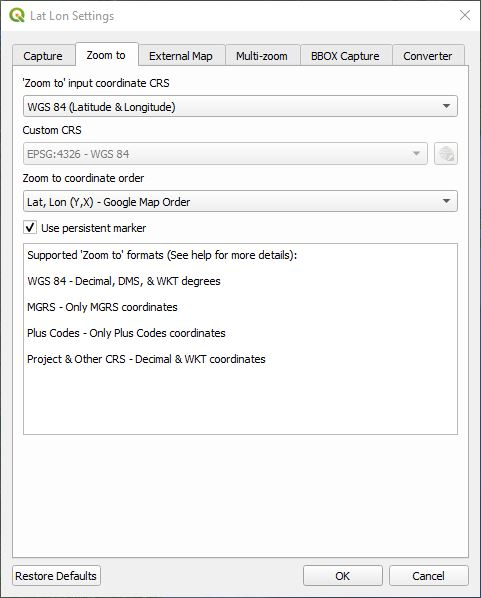
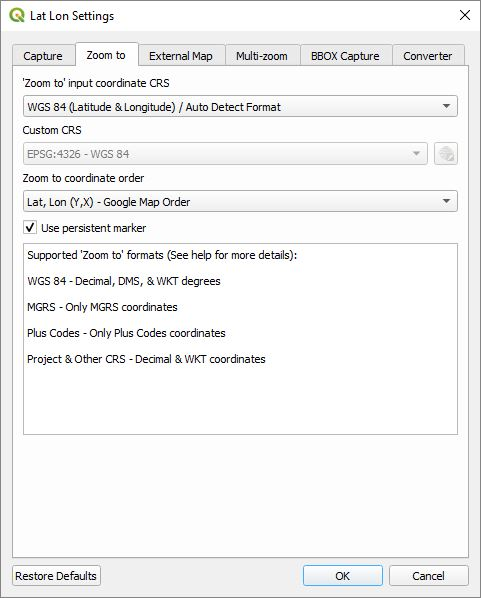
expanded zoomto and multi-zoomto capabilities

diff --git a/zoomToLatLon.py b/zoomToLatLon.py
@@ -56,12 +56,15 @@ class ZoomToLatLon(QDockWidget, FORM_CLASS):
 
     def configure(self):
         self.coordTxt.setText("")
+        self.removeMarker()
 
         if self.settings.zoomToProjIsMGRS():
             # This is an MGRS coordinate
             self.label.setText("Enter MGRS Coordinate")
         elif self.settings.zoomToProjIsPlusCodes():
             self.label.setText("Enter Plus Codes")
+        elif self.settings.zoomToProjIsStandardUtm():
+            self.label.setText("Enter Standard UTM")
         elif self.settings.zoomToProjIsWgs84():
             if self.settings.zoomToCoordOrder == 0:
                 self.label.setText("Enter 'Latitude, Longitude'")
@@ -80,9 +83,30 @@ class ZoomToLatLon(QDockWidget, FORM_CLASS):
             else:
                 self.label.setText("Enter {} X,Y".format(crsID))
 
-    def zoomToPressed(self):
+    def convertCoordinate(self, text):
         try:
-            text = self.coordTxt.text().strip()
+            if self.settings.zoomToProjIsMGRS():
+                # An MGRS coordinate only format has been specified. This will result in an exception
+                # if it is not a valid MGRS coordinate
+                text2 = re.sub(r'\s+', '', str(text))  # Remove all white space
+                lat, lon = mgrs.toWgs(text2)
+                return(lat, lon, epsg4326)
+
+            if self.settings.zoomToProjIsPlusCodes():
+                # A Plus Codes coordinate has been selected. This will result in an exception
+                # if it is not a valid plus codes coordinate.
+                coord = olc.decode(text)
+                lat = coord.latitudeCenter
+                lon = coord.longitudeCenter
+                return(lat, lon, epsg4326)
+
+            if self.settings.zoomToProjIsStandardUtm():
+                # A Standard UTM coordinate has been selected. This will result in an exception
+                # if it is not a valid utm coordinate.
+                pt = utmString2Crs(text)
+                return(pt.y(), pt.x(), epsg4326)
+
+            # Check for other formats
             if text[0] == '{':  # This may be a GeoJSON point
                 codec = QTextCodec.codecForName("UTF-8")
                 fields = QgsJsonUtils.stringToFields(text, codec)
@@ -94,57 +118,73 @@ class ZoomToLatLon(QDockWidget, FORM_CLASS):
                 if geom.isEmpty() or (geom.wkbType() != QgsWkbTypes.Point):
                     raise ValueError('Invalid GeoJSON Geometry')
                 pt = geom.asPoint()
-                lat = pt.y()
-                lon = pt.x()
-                srcCrs = epsg4326
-            elif isUtm(text):
+                return(pt.y(), pt.x(), epsg4326)
+
+            # Check to see if it is standard UTM
+            if isUtm(text):
                 pt = utmString2Crs(text)
-                srcCrs = epsg4326
-                lon = pt.x()
-                lat = pt.y()
-            elif self.settings.zoomToProjIsWgs84():
-                if re.search(r'POINT\(', text) is None:
-                    lat, lon = parseDMSString(text, self.settings.zoomToCoordOrder)
-                else:
-                    m = re.findall(r'POINT\(\s*([+-]?\d*\.?\d*)\s+([+-]?\d*\.?\d*)', text)
-                    if len(m) != 1:
-                        raise ValueError('Invalid Coordinates')
-                    lon = float(m[0][0])
-                    lat = float(m[0][1])
-                srcCrs = epsg4326
-            elif self.settings.zoomToProjIsPlusCodes() and olc.isValid(text):
-                # This looks like a Plus Codes coordinate
+                return(pt.y(), pt.x(), epsg4326)
+
+            # Check to see if it is an MGRS coordinate
+            try:
+                text2 = re.sub(r'\s+', '', str(text))
+                lat, lon = mgrs.toWgs(text2)
+                return(lat, lon, epsg4326)
+            except Exception:
+                pass
+
+            # Check to see if it is a plus codes string
+            try:
                 coord = olc.decode(text)
-                srcCrs = epsg4326
                 lat = coord.latitudeCenter
                 lon = coord.longitudeCenter
-            elif self.settings.zoomToProjIsMGRS():
-                # This is an MGRS coordinate
-                text = re.sub(r'\s+', '', str(text))  # Remove all white space
-                lat, lon = mgrs.toWgs(text)
-                srcCrs = epsg4326
-            else:  # Is either the project or custom CRS
-                if re.search(r'POINT\(', text) is None:
-                    coords = re.split(r'[\s,;:]+', text, 1)
-                    if len(coords) < 2:
-                        raise ValueError('Invalid Coordinates')
-                    if self.settings.zoomToCoordOrder == self.settings.OrderYX:
-                        lat = float(coords[0])
-                        lon = float(coords[1])
-                    else:
-                        lon = float(coords[0])
-                        lat = float(coords[1])
-                else:
-                    m = re.findall(r'POINT\(\s*([+-]?\d*\.?\d*)\s+([+-]?\d*\.?\d*)', text)
-                    if len(m) != 1:
-                        raise ValueError('Invalid Coordinates')
-                    lon = float(m[0][0])
-                    lat = float(m[0][1])
-                if self.settings.zoomToProjIsProjectCRS():
+                return(lat, lon, epsg4326)
+            except Exception:
+                pass
+
+            # Check to see if it is a WKT POINT format
+            if re.search(r'POINT\(', text) is not None:
+                m = re.findall(r'POINT\(\s*([+-]?\d*\.?\d*)\s+([+-]?\d*\.?\d*)', text)
+                if len(m) != 1:
+                    raise ValueError('Invalid Coordinates')
+                lon = float(m[0][0])
+                lat = float(m[0][1])
+                if self.settings.zoomToProjIsWgs84():
+                    srcCrs = epsg4326
+                elif self.settings.zoomToProjIsProjectCRS():
                     srcCrs = self.canvas.mapSettings().destinationCrs()
                 else:
                     srcCrs = self.settings.zoomToCustomCRS()
+                return(lat, lon, srcCrs)
 
+            # We are left with either DMS or decimal degrees in one of the projections
+            if self.settings.zoomToProjIsWgs84():
+                lat, lon = parseDMSString(text, self.settings.zoomToCoordOrder)
+                return(lat, lon, epsg4326)
+
+            # We are left with a non WGS 84 decimal projection
+            coords = re.split(r'[\s,;:]+', text, 1)
+            if len(coords) < 2:
+                raise ValueError('Invalid Coordinates')
+            if self.settings.zoomToCoordOrder == self.settings.OrderYX:
+                lat = float(coords[0])
+                lon = float(coords[1])
+            else:
+                lon = float(coords[0])
+                lat = float(coords[1])
+            if self.settings.zoomToProjIsProjectCRS():
+                srcCrs = self.canvas.mapSettings().destinationCrs()
+            else:
+                srcCrs = self.settings.zoomToCustomCRS()
+            return(lat, lon, srcCrs)
+
+        except Exception:
+            raise ValueError('Invalid Coordinates')
+        
+    def zoomToPressed(self):
+        try:
+            text = self.coordTxt.text().strip()
+            (lat, lon, srcCrs) = self.convertCoordinate(text)
             pt = self.lltools.zoomTo(srcCrs, lat, lon)
             if self.settings.persistentMarker:
                 if self.marker is None:

diff --git a/settings.py b/settings.py
@@ -84,9 +84,9 @@ class SettingsWidget(QDialog, FORM_CLASS):
     Wgs84TypeWKT = 3
     Wgs84TypeGeoJSON = 4
     ProjectionTypeWgs84 = 0
-    ProjectionTypeMGRS = 1
-    ProjectionTypeProjectCRS = 2
-    ProjectionTypeCustomCRS = 3
+    ProjectionTypeProjectCRS = 1
+    ProjectionTypeCustomCRS = 2
+    ProjectionTypeMGRS = 3
     ProjectionTypePlusCodes = 4
     ProjectionTypeUTM = 5
     OrderYX = 0
@@ -102,7 +102,7 @@ class SettingsWidget(QDialog, FORM_CLASS):
         self.buttonBox.button(QDialogButtonBox.RestoreDefaults).clicked.connect(self.restoreDefaults)
 
         ### CAPTURE SETTINGS ###
-        self.captureProjectionComboBox.addItems(['WGS 84 (Latitude & Longitude)', 'MGRS', 'Project CRS', 'Custom CRS', 'Plus Codes', 'Standard UTM'])
+        self.captureProjectionComboBox.addItems(['WGS 84 (Latitude & Longitude)', 'Project CRS', 'Custom CRS', 'MGRS', 'Plus Codes', 'Standard UTM'])
         self.captureProjectionSelectionWidget.setCrs(epsg4326)
         self.wgs84NumberFormatComboBox.addItems(['Decimal Degrees', 'DMS', 'DDMMSS', 'WKT POINT', 'GeoJSON'])
         self.otherNumberFormatComboBox.addItems(['Normal Coordinate', 'WKT POINT'])
@@ -111,7 +111,7 @@ class SettingsWidget(QDialog, FORM_CLASS):
         self.captureProjectionComboBox.activated.connect(self.setEnabled)
 
         ### ZOOM TO SETTINGS ###
-        self.zoomToProjectionComboBox.addItems(['WGS 84 (Latitude & Longitude)', 'MGRS', 'Project CRS', 'Custom CRS', 'Plus Codes'])
+        self.zoomToProjectionComboBox.addItems(['WGS 84 (Latitude & Longitude) / Auto Detect Format', 'Project CRS', 'Custom CRS', 'MGRS', 'Plus Codes', 'Standard UTM'])
         self.zoomToProjectionSelectionWidget.setCrs(epsg4326)
         self.zoomToCoordOrderComboBox.addItems(['Lat, Lon (Y,X) - Google Map Order', 'Lon, Lat (X,Y) Order'])
         self.zoomToProjectionComboBox.activated.connect(self.setEnabled)
@@ -120,7 +120,7 @@ class SettingsWidget(QDialog, FORM_CLASS):
         self.mapProviderComboBox.addItems(mapProviders.mapProviderNames())
 
         ### MULTI-ZOOM ###
-        self.multiZoomToProjectionComboBox.addItems(['WGS 84 (Latitude & Longitude)', 'MGRS', 'Project CRS', 'Custom CRS', 'Plus Codes'])
+        self.multiZoomToProjectionComboBox.addItems(['WGS 84 (Latitude & Longitude)', 'Project CRS', 'Custom CRS', 'MGRS', 'Plus Codes', 'Standard UTM'])
         self.multiZoomToProjectionComboBox.activated.connect(self.setEnabled)
         self.multiZoomToProjectionSelectionWidget.setCrs(epsg4326)
         self.qmlBrowseButton.clicked.connect(self.qmlOpenDialog)
@@ -364,12 +364,12 @@ class SettingsWidget(QDialog, FORM_CLASS):
 
         # Simple Zoom to Enables
         zoomToProjection = int(self.zoomToProjectionComboBox.currentIndex())
-        self.zoomToCoordOrderComboBox.setEnabled((zoomToProjection != self.ProjectionTypeMGRS) and (zoomToProjection != self.ProjectionTypePlusCodes))
+        self.zoomToCoordOrderComboBox.setEnabled((zoomToProjection != self.ProjectionTypeMGRS) and (zoomToProjection != self.ProjectionTypePlusCodes) and (zoomToProjection != self.ProjectionTypeUTM))
         self.zoomToProjectionSelectionWidget.setEnabled(zoomToProjection == self.ProjectionTypeCustomCRS)
 
         # MULTI Zoom
         zoomToProjection = int(self.multiZoomToProjectionComboBox.currentIndex())
-        self.multiZoomToProjectionSelectionWidget.setEnabled(zoomToProjection == 3)
+        self.multiZoomToProjectionSelectionWidget.setEnabled(zoomToProjection == 2)
 
     def showTab(self, tab):
         self.tabWidget.setCurrentIndex(tab)
@@ -408,11 +408,10 @@ class SettingsWidget(QDialog, FORM_CLASS):
         self.captureMarkerCheckBox.setCheckState(settings.captureShowLocation)
 
         ### ZOOM TO SETTINGS ###
+        self.zoomToProjectionComboBox.setCurrentIndex(self.zoomToProjection)
         if self.zoomToCustomCrsAuthId == 'EPSG:4326':
-            self.zoomToProjectionComboBox.setCurrentIndex(self.ProjectionTypeWgs84)
             self.zoomToProjectionSelectionWidget.setCrs(epsg4326)
         else:
-            self.zoomToProjectionComboBox.setCurrentIndex(self.zoomToProjection)
             self.zoomToProjectionSelectionWidget.setCrs(QgsCoordinateReferenceSystem(self.zoomToCustomCrsAuthId))
         self.zoomToCoordOrderComboBox.setCurrentIndex(self.zoomToCoordOrder)
         self.persistentMarkerCheckBox.setCheckState(self.persistentMarker)
@@ -525,8 +524,13 @@ class SettingsWidget(QDialog, FORM_CLASS):
             return True
         return False
 
+    def zoomToProjIsStandardUtm(self):
+        if self.zoomToProjection == self.ProjectionTypeUTM:
+            return True
+        return False
+
     def multiZoomToProjIsMGRS(self):
-        if self.multiZoomToProjection == 1:  # MGRS
+        if self.multiZoomToProjection == 3:  # MGRS
             return True
         return False
 
@@ -535,13 +539,18 @@ class SettingsWidget(QDialog, FORM_CLASS):
             return True
         return False
 
+    def multiZoomToProjIsUtm(self):
+        if self.multiZoomToProjection == 5:  # Standard UTM
+            return True
+        return False
+
     def multiZoomToProjIsWgs84(self):
         if self.multiZoomToProjection == 0:  # Wgs84
             return True
-        if self.multiZoomToProjection == 2:  # Project CRS
+        if self.multiZoomToProjection == 1:  # Project CRS
             if self.canvas.mapSettings().destinationCrs() == epsg4326:
                 return True
-        if self.multiZoomToProjection == 3:  # Custom CRS
+        if self.multiZoomToProjection == 2:  # Custom CRS
             if self.multiZoomToCustomCRS() == epsg4326:
                 return True
         return False
@@ -549,7 +558,7 @@ class SettingsWidget(QDialog, FORM_CLASS):
     def multiZoomToCRS(self):
         if self.multiZoomToProjection == 0:  # Wgs84
             return self.epse4326
-        if self.multiZoomToProjection == 2:  # Project CRS
+        if self.multiZoomToProjection == 1:  # Project CRS
             return self.canvas.mapSettings().destinationCrs()
-        if self.multiZoomToProjection == 3:  # Custom CRS
+        if self.multiZoomToProjection == 2:  # Custom CRS
             return self.multiZoomToCustomCRS()

diff --git a/multizoom.py b/multizoom.py
@@ -11,6 +11,7 @@ from qgis.core import (
     QgsPalLayerSettings, QgsVectorLayerSimpleLabeling, QgsProject, Qgis)
 from qgis.gui import QgsVertexMarker
 from .util import epsg4326, parseDMSStringSingle, parseDMSString
+from .utm import utmString2Crs
 from . import mgrs
 from . import olc
 
@@ -86,6 +87,8 @@ class MultiZoomWidget(QDockWidget, FORM_CLASS):
             self.label.setText("Enter coordinate ('mgrs,...)")
         elif self.settings.multiZoomToProjIsPlusCodes():
             self.label.setText("Enter coordinate ('Plus code,...)")
+        elif self.settings.multiZoomToProjIsUtm():
+            self.label.setText("Enter coordinate ('Standard UTM,...)")
         else:
             if self.settings.multiCoordOrder == self.settings.OrderYX:
                 self.label.setText("Enter coordinate ({} Y,X,...)".format(self.settings.multiZoomToCRS().authid()))
@@ -305,6 +308,14 @@ class MultiZoomWidget(QDockWidget, FORM_CLASS):
                 coord = olc.decode(parts[0])
                 lat = coord.latitudeCenter
                 lon = coord.longitudeCenter
+                if numFields >= 2:
+                    label = parts[1]
+                if numFields >= 3:
+                    data = parts[2:]
+            elif self.settings.multiZoomToProjIsUtm():
+                pt = utmString2Crs(parts[0])
+                lat = pt.y()
+                lon = pt.x()
                 if numFields >= 2:
                     label = parts[1]
                 if numFields >= 3:

diff --git a/readme.md b/readme.md
@@ -12,7 +12,7 @@ Some of the functions can be accessed from the ***Lat Lon Tools*** toolbar. If f
   
 * <img src="images/mapicon.png" alt="Show in External Map"> ***Show in External Map*** - With this tool, the user can click on the QGIS map which launches an external browser and displays the location on an external map. Currently Open Street Map, Google Maps, MapQuest, and Bing Maps are supported. Google Earth is supported if it is installed on the system. The desired map can be configured in **Settings**. A temporary marker can be displayed on the map at the location clicked on. To turn this on go to **Settings**.
 
-* <img src="images/zoomicon.png" alt="Zoom-to"> ***Zoom to Latitude, Longitude*** - With this tool, type or paste a coordinate into the text area and hit **Enter**. QGIS centers the map on the coordinate, highlights the location and creates a temporary marker at the location. The marker can be removed with the <img src="doc/cleartool.jpg" alt="Clear marker"> button. If the default **WGS 84** (EPSG:4326 - latitude/longitude) coordinate system is specified, ***Zoom to Latitude, Longitude*** can interpret **decimal degrees**, **DMS**, **WKT POINT**, **Standard UTM**, or **GeoJSON** coordinates. It can also zoom to **MGRS** coordinates , **Plus Code** coordinates or coordinates formatted in any other projection when configured in **Settings**. The ***Coordinate Order*** in ***Settings*** dictates whether the order is latitude followed by longitude (Y,X) or longitude followed by latitude (X,Y). By default the order is "Latitude, Longitude", the format used by Google Maps. Pressing the <img src="doc/zoomtool.jpg" alt="Zoom button"> also causes QGIS to zoom to that location.<br /><div style="text-align:center"><img src="doc/zoomto.jpg" alt="Zoom to Latitude, Longitude"></div><br />The following are acceptable coordinate formats when the ***Settings*** **Zoom to Coordinate Type** is set to ***WGS 84 (Latitude & Longitude)***. When the letters "N, S, E, W" are used, then the coordinate order is not important. These letters can be used before or after the coordinates. As long as the coordinate is understandable, punctuation, spaces, and &deg; ' " are optional. In these examples "d" represents degree digits, "m" minutes, and "s" seconds. Here are some example input formats:
+* <img src="images/zoomicon.png" alt="Zoom-to"> ***Zoom to Latitude, Longitude*** - With this tool, type or paste a coordinate into the text area and hit **Enter**. QGIS centers the map on the coordinate, highlights the location and creates a temporary marker at the location. The marker can be removed with the <img src="doc/cleartool.jpg" alt="Clear marker"> button. If the default **WGS 84** (EPSG:4326 - latitude/longitude) coordinate system is specified, ***Zoom to Latitude, Longitude*** can interpret **decimal degrees**, **DMS**, **WKT POINT**, **Standard UTM**, **MGRS**, **Plus Codes**, or **GeoJSON** coordinates. It can also zoom to any other projection when configured in **Settings**. The ***Coordinate Order*** in ***Settings*** dictates whether the order is latitude followed by longitude (Y,X) or longitude followed by latitude (X,Y). By default the order is "Latitude, Longitude", the format used by Google Maps. Pressing the <img src="doc/zoomtool.jpg" alt="Zoom button"> also causes QGIS to zoom to that location.<br /><div style="text-align:center"><img src="doc/zoomto.jpg" alt="Zoom to Latitude, Longitude"></div><br />The following are acceptable coordinate formats when the ***Settings*** **Zoom to Coordinate Type** is set to ***WGS 84 (Latitude & Longitude)***. When the letters "N, S, E, W" are used, then the coordinate order is not important. These letters can be used before or after the coordinates. As long as the coordinate is understandable, punctuation, spaces, and &deg; ' " are optional. In these examples "d" represents degree digits, "m" minutes, and "s" seconds. Here are some example input formats:
 
     * Decimal Degree: 38.959390&deg;, -95.265483&deg; / 38.959390, -95.265483 / 38.959390N, 95.265483 W (d.dddd, d.dddd)
     * Degree, Minute: 38&deg; 57.5634'N 95&deg; 15.92890'W (d m.mmmm, d m.mmmm)
@@ -32,7 +32,8 @@ Some of the functions can be accessed from the ***Lat Lon Tools*** toolbar. If f
     * **"mgrs[,label,data1,...,data10]"**
     * **"Y,X[,label,data1,...,data10]"**
     * **"X,Y[,label,data1,...,data10]"**
-     * **"plus codes[,label,data1,...,data10]"**
+    * **"plus codes[,label,data1,...,data10]"**
+    * **"standard utm[,label,data1,...,data10]"**
    
     When the user clicks on a location in the list, QGIS centers the map on the location and highlights it. Double clicking on a **Label** or **Data** cell allows the text to be edited. By default the **Data** fields will not be visible, but can be added from ***Settings***. More than one location can be selected by clicking on the first point and then Shift-Click to select a range or using Ctrl-Click to add additional selected items. Markers for all selected items will be displayed. The following are additional functions.
     * <img src="doc/open.png" alt="Open"> ***Open Location List*** reads in a set of coordinates that are comma separated with an optional label. There should only be one location per line and formatted as **"latitude,longitude,label,data1,...,data10"** or simply **"latitude,longitude"**.
@@ -127,9 +128,9 @@ Some of the functions can be accessed from the ***Lat Lon Tools*** toolbar. If f
 There are 6 capture projections/formats that can be selected from the ***CRS/Projection of captured coordinate*** drop down menu. They are as follows.
 
 * **WGS 84 (Latitude & Longitude)** - This captures the coordinates as a latitude and longitude regardless of what the project CRS is set to. This is the default setting.
-* **MGRS** - This captures the coordinates in the [MGRS](https://en.wikipedia.org/wiki/Military_grid_reference_system) format,
 * **Project CRS** - This captures the coordinates using the project's specified CRS.
 * **Custom CRS** - The captures the coordinate in any coordinate reference system regardless of what the project CRS is set to. When this is selected, then the ***Custom CRS*** dialog box is activated allowing selection of any projection.
+* **MGRS** - This captures the coordinates in the [MGRS](https://en.wikipedia.org/wiki/Military_grid_reference_system) format,
 * **Plus Codes** - This captures the coordinate in [Google Plus Codes](https://plus.codes/) format.
 * **Standard UTM** - This has the form of '12N 417159.0 4515540.6'
 
@@ -168,13 +169,14 @@ The order in which the coordinates are captured is determined by ***Coordinate o
 
 The ***Zoom to Latitude, Longitude*** tool accepts the following input coordinates as specified by ***Zoom to Coordinate Type***:
 
-* **WGS 84 (Latitude & Longitude)** - Input coordinates can be either in decimal, DMS or WKT degrees. The order of the coordinates are determined by ***Zoom to Coordinate Order***.
-* **MGRS** - This accepts [MGRS](https://en.wikipedia.org/wiki/Military_grid_reference_system) coordinates as input.
+* **WGS 84 (Latitude & Longitude) / Auto Detect Format** - Input coordinates can be either in decimal degrees, DMS degrees, WKT, or GeoJSON. For decimal and DMS formats, the order of the coordinates are determined by ***Zoom to Coordinate Order***. It also auto detects MGRS, Plus Codes, and Standard UTM formats so it is generally unnecessary to specify them separately.
 * **Project CRS** - This accepts coordinates formatted in the CRS of the QGIS project. The numbers can be formatted in decimal or WKT notation.
 * **Custom CRS** - You can specify any CRS for the input coordinates and QGIS zooms to that coordinate regardless of the project CRS. The numbers can be formatted in decimal or WKT notation.
-* **Plus Codes** - This accepts [Plus Codes](https://plus.codes/) coordinates as input.
+* **MGRS** - This only accepts [MGRS](https://en.wikipedia.org/wiki/Military_grid_reference_system) coordinates as input.
+* **Plus Codes** - This only accepts [Plus Codes](https://plus.codes/) coordinates as input.
+* **Standard UTM** - This only accepts **Standard UTM** coordinates as input.
 
-The order in which the coordinates are parsed in the ***Zoom to Latitude, Longitude*** tool is specified by ***Zoom to Coordinate Type*** and has the following two options: This is not applicable for **MGRS** coordinates, **WKT** coordinates, nor **Plus Codes** coordinates.
+The order in which the coordinates are parsed in the ***Zoom to Latitude, Longitude*** tool is specified by ***Zoom to Coordinate Type*** and has the following two options: This is not applicable for **WKT**, **GeoJSON**, **MGRS**, **Plus Codes**, and **Standard UTM** coordinates.
 
 * **Lat, Lon (Y,X) - Google Map Order**
 * **Lon, Lat (X,Y) Order**
@@ -220,10 +222,11 @@ These are settings for the Multi-location zoom dialog box.
 The user sets the CRS/projection of the coordinates in the ***Enter coordinate*** text box. By default this is set to WGS 84, latitude and longitude. This has no effect on the coordinates in the ***Location List*** that can be read in. The location list must always be WGS 84. The options are:
 
 * **WGS 84 (Latitude &amp; Longitude)**
-* **MGRS**
 * **Project CRS**
 * **Custom CRS**
+* **MGRS**
 * **Plus Codes**
+* **Standard UTM**
 
 When **Custom CRS** is selected, the user is allowed to select a custom CRS projection.
 
